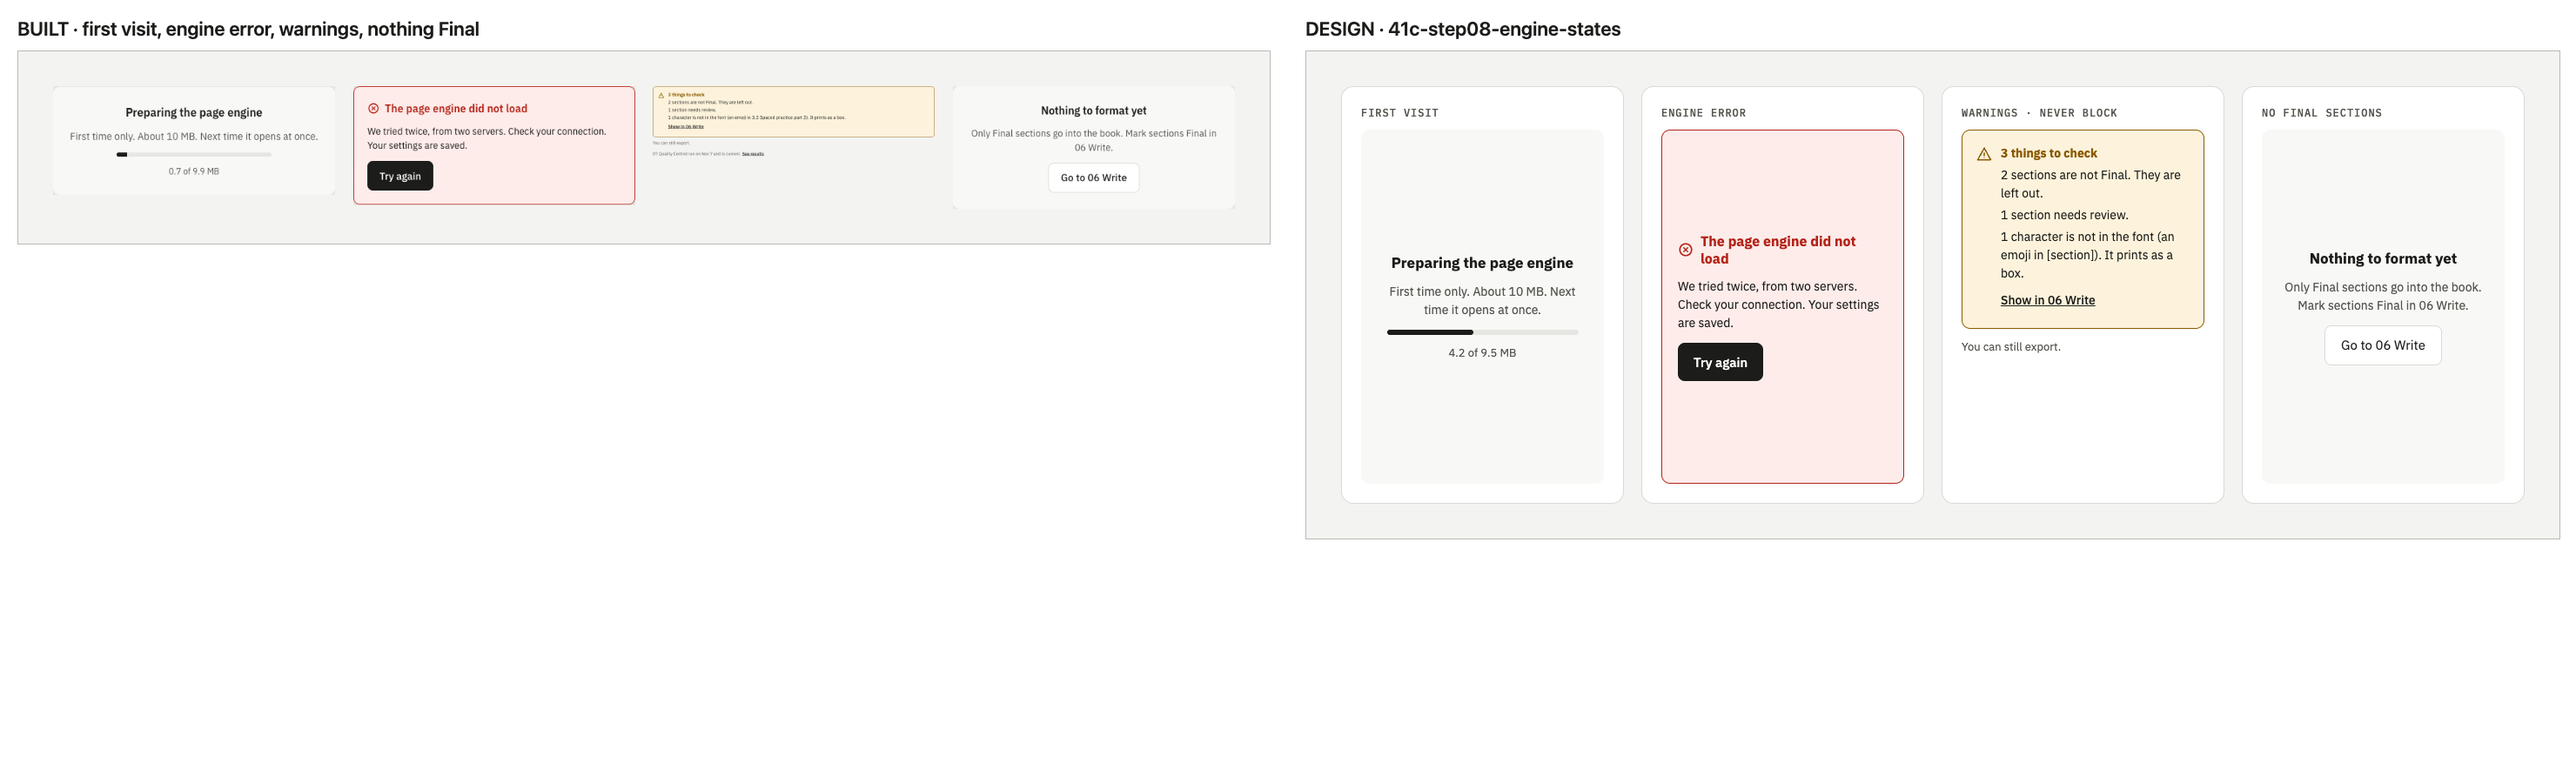
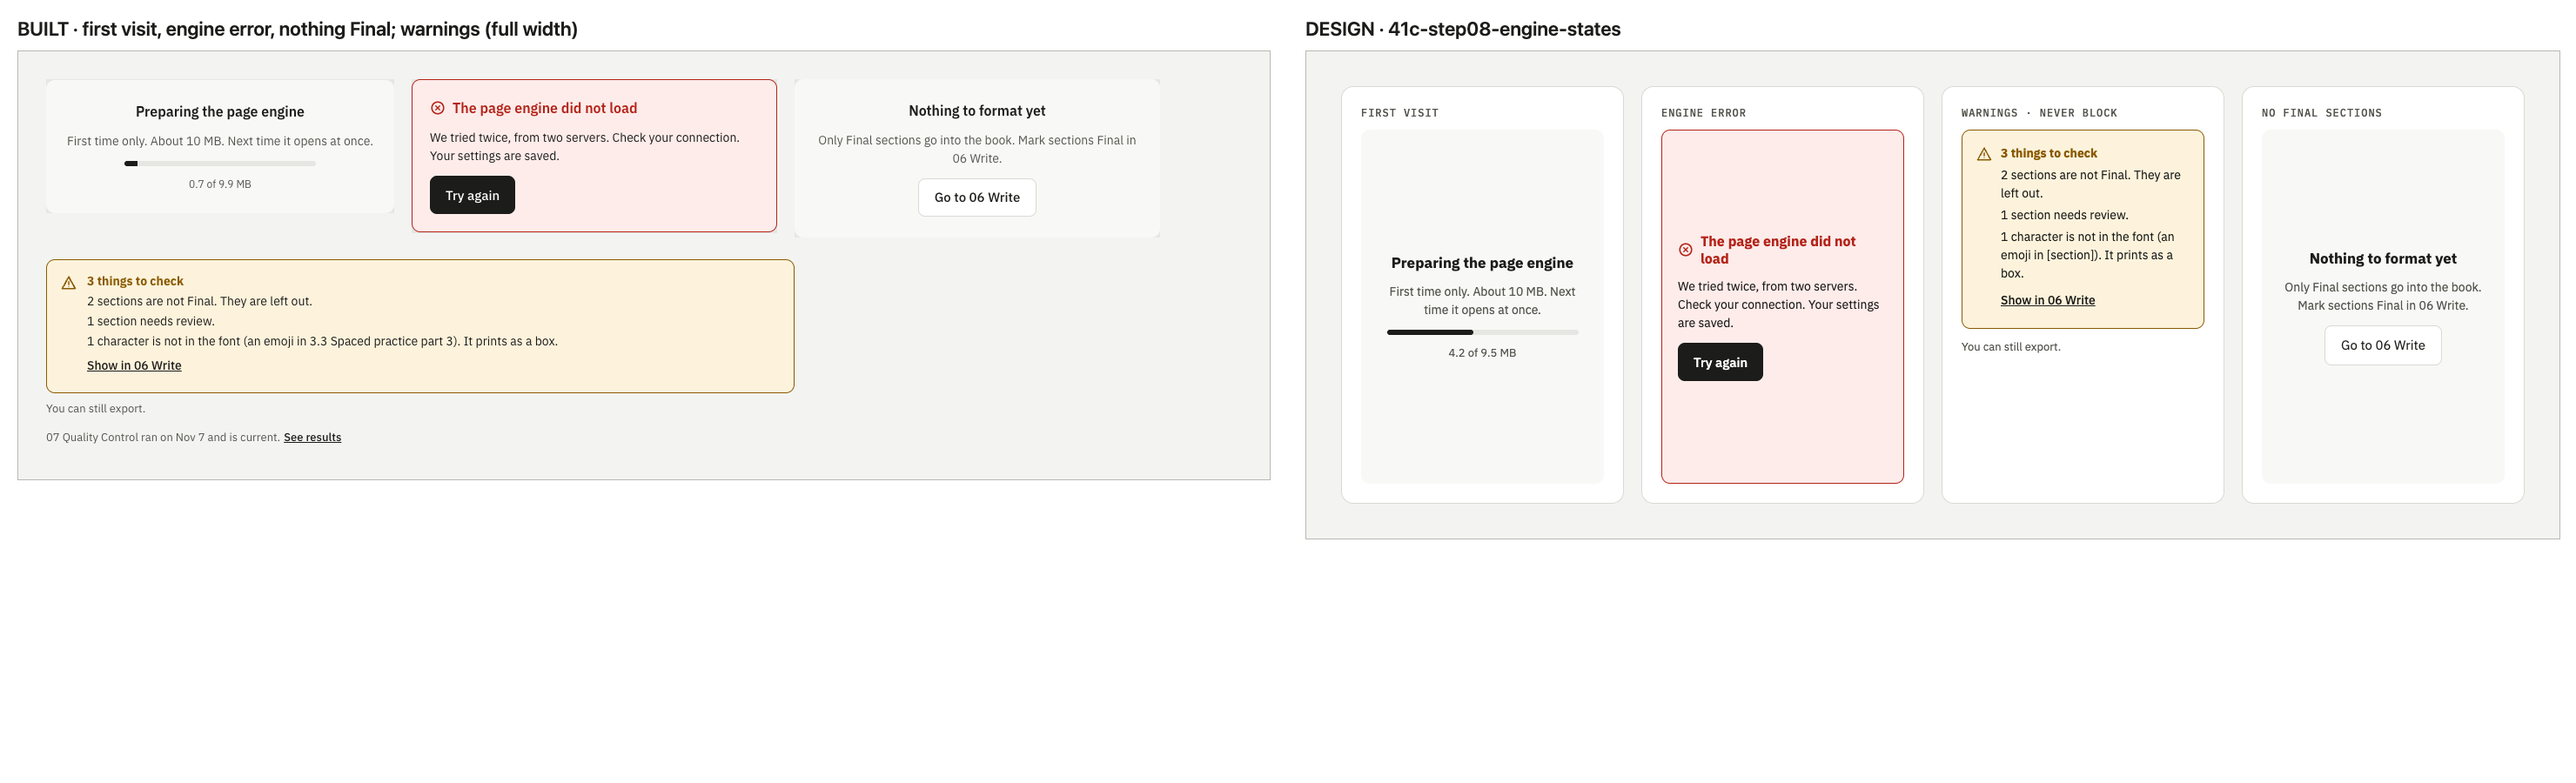
docs(E13.2): STOP 4 report with the self-host measurement, images, readable 41c

diff --git a/docs/reviews/2026-11-09-e13-2-stop4.md b/docs/reviews/2026-11-09-e13-2-stop4.md
@@ -1,0 +1,91 @@
+# E13.2 Part 4 · the Export files panel and the 08 marks · STOP 4
+
+Status: STOP 4 (Nov 9, 2026). Part 4 built and tested on `claude/e13-2-format`. Owner OK and
+"commit and push" on Nov 9: Q1 and Q2 keep; keep jsdelivr first, no self-host now.
+Plan: `docs/reviews/2026-11-08-e13-2-plan.md`. Part 3: `docs/reviews/2026-11-08-e13-2-stop3.md`.
+Part 5 (live check) only after the owner's OK. Part 3 was committed and pushed (3fbb6ed).
+
+Mock data only (no sign-in, no live calls). The print engine is real (from the checked cache).
+
+## What Part 4 built
+| Area | Files | What |
+|---|---|---|
+| Export files panel (42) | `js/format-export.js` (first built in the parked E13.1 Part 3, reviewed here) | "Export files" on 08 opens it. Title, "<title> · <n> pages · 6 × 9 in · white paper". Print PDF: read the book again, build, the 3 PDF checks (page size = trim on every page, fonts embedded, even count equal in engine and file), record the row, download `<title-slug>-print-<trim>.pdf`. After: the green pill "Exported Nov 9 · 38 pages", Export again. Changed since the PDF: the row in the warning look with a filled Export again. Exporting: progress, Cancel, "One file at a time. Other rows wait." Errors: a failed check (its name, nothing downloaded), the book changed meanwhile (0027 `export_stale`, nothing downloaded), a failed record (the file downloads, a note with Try again). "Page count changed. Your cover must be made again." with the old and new count and the new spine. EPUB "Comes next" (Q1). Word opens the E11 dialog. Footer without "opens 09 Cover" (F8) |
+| One build at a time | `js/book-format.js` | The panel pauses the preview: it waits for a running preview build and holds the next one until the export ends |
+| 08 mark (50) | `js/book-format.js` | Read from 0027 `pdf_marks` (as the Books card), at load, after a settings save and after an export. Done = a Print PDF that matches the book now: the check in the sidebar and the rail, the note "Coming next". Changed: no check, "Not done yet: changed since your last PDF. Export it again." |
+| Books card (50) | `app/dashboard.html` | "✓ Print PDF" (success) next to the DOCX badge; out of date: "Print PDF changed" (warning look, icon and word, as design 50's "! changed"). The meta line shows the newest export. A failed read: no mark, no error |
+| Data | `js/supabase.js` | `recordPdfExport`, `listPdfMarks` |
+| Page | `app/book.html`, `css/app.css` | Loads `js/format/pdf-check.js` and `js/format-export.js`; the panel styles (tokens only) |
+
+## Compare images (§8.5) · `docs/reviews/e13-2-stop4/`
+| Design | 1440, next to the design | 900 |
+|---|---|---|
+| 42 panel after an export, exporting, changed, an error | `42-export-panel-compare.png` | `42-export-panel-900.png`, `42-changed-900.png` |
+| 50 the 08 marks: sidebar, rail, Books card | `50-marks-compare.png` | `50-marks-rail-1440.png` (rail) |
+
+And the STOP 3 image remade as asked: `docs/reviews/e13-2-stop3/41c-states-compare.png` now shows the three state
+cards in one row and the warnings card full width under them, readable.
+
+Differences (planned or answered, except the two marked new):
+- F7 the EPUB row is "Comes next", not drawn live (Q1). F8 the footer leaves out "The Print PDF opens 09 Cover".
+- **New, your call:** the "changed" row says "Changed since export. Last PDF Nov 9 · 38 pages." Design 42 names what changed ("1 section, text style"). 0027 keeps one key (a hash of the inputs), not the parts, so the screen cannot tell what changed. Keep (recommended), or plan a "what changed" list for later (needs the inputs stored with the row: a migration)?
+- **New, your call:** design 50 shows "PACKAGE 2 of 2 done" and short Books labels ("✓ DOCX", "✓ Print PDF"). Built: no PACKAGE count until 09 exists (E15), and the DOCX badge keeps its E11 words ("DOCX exported", "Changed since export"); the Print PDF mark uses the short label. Keep both until E15 (recommended)?
+- The rail on 08 itself shows the current dot, not the check (as 51b and 57; design 50's "a check on 08" is the rail seen from 09).
+
+## Measurement: our own host vs jsdelivr (no switch in the app)
+Owner choice (Nov 9): a separate throwaway repo, not main. The 22 pinned files, byte for byte, in
+`nanda-1-wq/nicheink-cdn-test`, served by GitHub Pages at https://nanda-1-wq.github.io/nicheink-cdn-test/
+(the same GitHub Pages CDN as nicheink.com). Each run: a new empty Chrome profile (Chrome 156, headless,
+this Mac), the 6 files of a first visit (engine JS + wasm + Classic's 4 fonts) fetched in parallel in the page,
+each sha384 checked. Runs alternate the two hosts.
+
+| Run | Host | Ready (all 6 files in, hashes checked) | On the wire |
+|---|---|---|---|
+| 1 | jsdelivr | 11,265 ms | 9,850,095 B (brotli) |
+| 2 | own (Pages) | 9,284 ms | 11,791,016 B (gzip) |
+| 3 | jsdelivr | 9,941 ms | 9,850,057 B |
+| 4 | own | 4,784 ms | 11,790,985 B |
+| 5 | jsdelivr | 3,928 ms | 9,850,066 B |
+| 6 | own | 4,441 ms | 11,791,055 B |
+| **Median** | jsdelivr **9,941 ms** · own **4,784 ms** | | |
+
+All 18 downloads passed their sha384. The wasm is always the last file in; the time is the wasm's time.
+
+What else differs:
+- **Size:** GitHub Pages sends gzip, jsdelivr brotli: 11.79 MB vs 9.85 MB on the wire (+20%).
+- **Caching:** jsdelivr says `max-age=31536000, immutable` (one year). GitHub Pages says `max-age=600` (10 minutes)
+  and we cannot change its headers. After 10 minutes a returning writer's browser asks again for each file
+  (a small "not modified" answer, one round trip per file), where jsdelivr needs none.
+- **Edge warm-up:** run 2 was the first fetch of these files from that Pages edge; runs 4 and 6 were warm.
+- **Limits:** GitHub Pages has a soft limit of 100 GB a month; at 11.8 MB a cold visit that is about 8,500 cold visits.
+
+Repo size if the files went on `main`: **34 MB on disk, 22 files, 12.9 MiB packed** in git history (measured with
+`git gc --aggressive` on a scratch repo). It stays in history even if removed later, and each engine or font
+version bump adds about the same again.
+
+Reading: 3 runs a host on one evening is a small sample; it fits the earlier note that jsdelivr swings a lot
+(8.8 s, 10 s, 55.6 s, 142 s on other runs). Own hosting looked faster and steadier here, at +20% bytes and
+10-minute caching. A possible design if you want it later: our host first with the same hashes, jsdelivr second
+(the code already tries two servers per file). No switch is built.
+
+The test repo stays public until you say delete (one command). It is not used by the app.
+
+**Owner, Nov 9:** keep jsdelivr first; no self-host now.
+
+## Tests
+| Suite | Result |
+|---|---|
+| Deno, every helper file | 355 passed, 0 failed (no rule change in Part 4) |
+| `format` t-export (new) | 34 passed |
+| `books` t-badge | 17 passed (12 + 5 new Print PDF mark checks) |
+| Every mocked suite, one sweep (format, qc, brief, research, positioning, title, delete, settings, export, books, pen, outline, write; image makers left out) | **2,576 passed, 0 failed** in 74 test files, after the two test fixes below. `write t-chapter` passed |
+
+Fixed during the sweep (tests that knew the Part 2 wiring, no screen change):
+- `format t-shell`: "Export files" now opens the 08 panel; the test reaches the E11 dialog through the panel's Word row.
+- `format t-screen`: the load-error case made two `format_json` reads fail, the first meant for the sidebar mark; the mark reads `pdf_marks` now, so one.
+
+The real-engine tests did not run again: Part 4 changes no engine file.
+
+## Not in Part 4
+Part 5: the live check from the branch (local server, live Supabase, no deploy) on the test account with a fresh
+test book; then your real book, where you sign in and export yourself and read me the numbers (change A).

diff --git a/docs/reviews/2026-11-08-e13-2-plan.md b/docs/reviews/2026-11-08-e13-2-plan.md
@@ -1,8 +1,8 @@
 # E13.2 · 08 Format screen rebuild · plan
 
-Status: STOP 3 (Nov 8, 2026). Parts 1 and 2 committed and pushed (15cbbd8). Part 3 built:
-report `docs/reviews/2026-11-08-e13-2-stop3.md`. Manual mode: commit and push only after the
-owner says "commit and push". Part 4 only after the owner's OK.
+Status: STOP 4 (Nov 9, 2026). Parts 1 to 3 committed and pushed (3fbb6ed). Part 4 built:
+report `docs/reviews/2026-11-09-e13-2-stop4.md`. Manual mode: commit and push only after the
+owner says "commit and push". Part 5 (live check) only after the owner's OK.
 
 Date: Nov 8, 2026. Base: `main` = 18f4b72. Branch: `claude/e13-2-format` from main.
 Rules for every part: no Supabase CLI, no deploy, no `.env` files opened, no live AI calls
